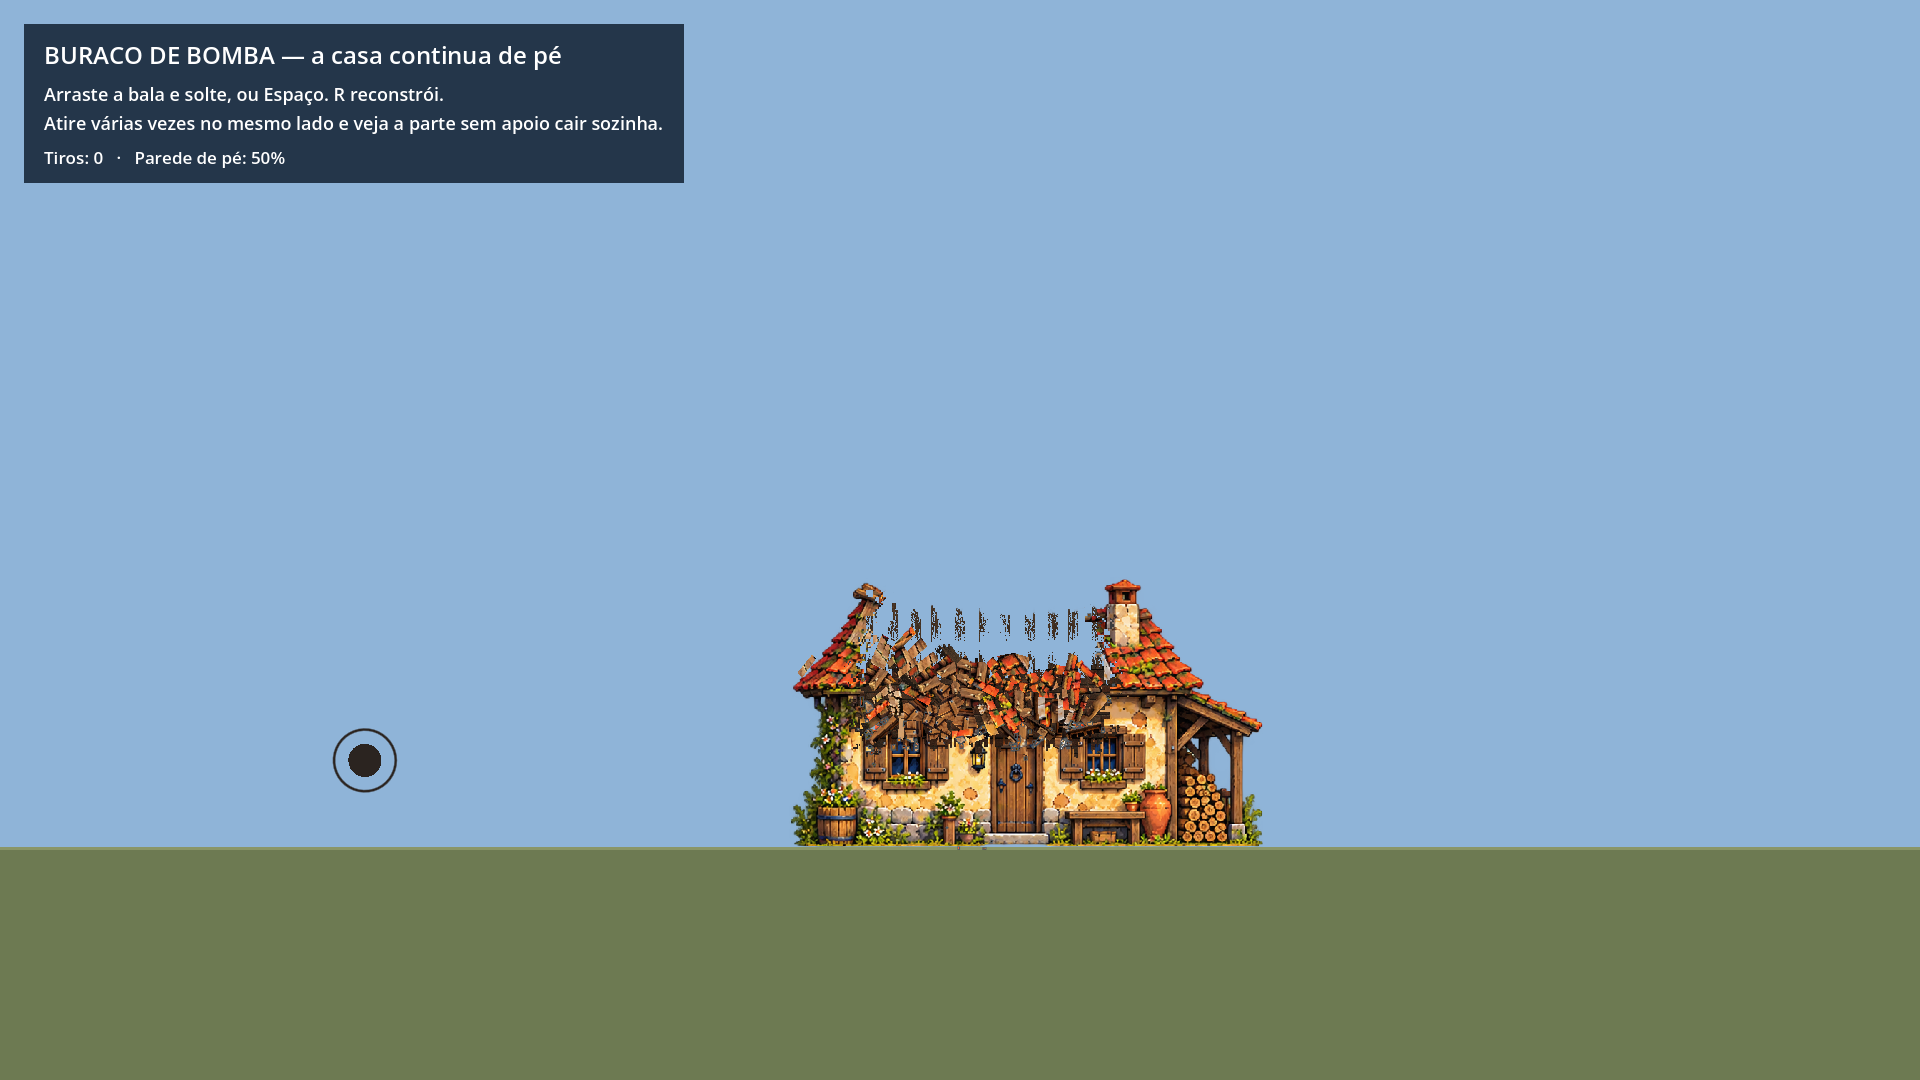
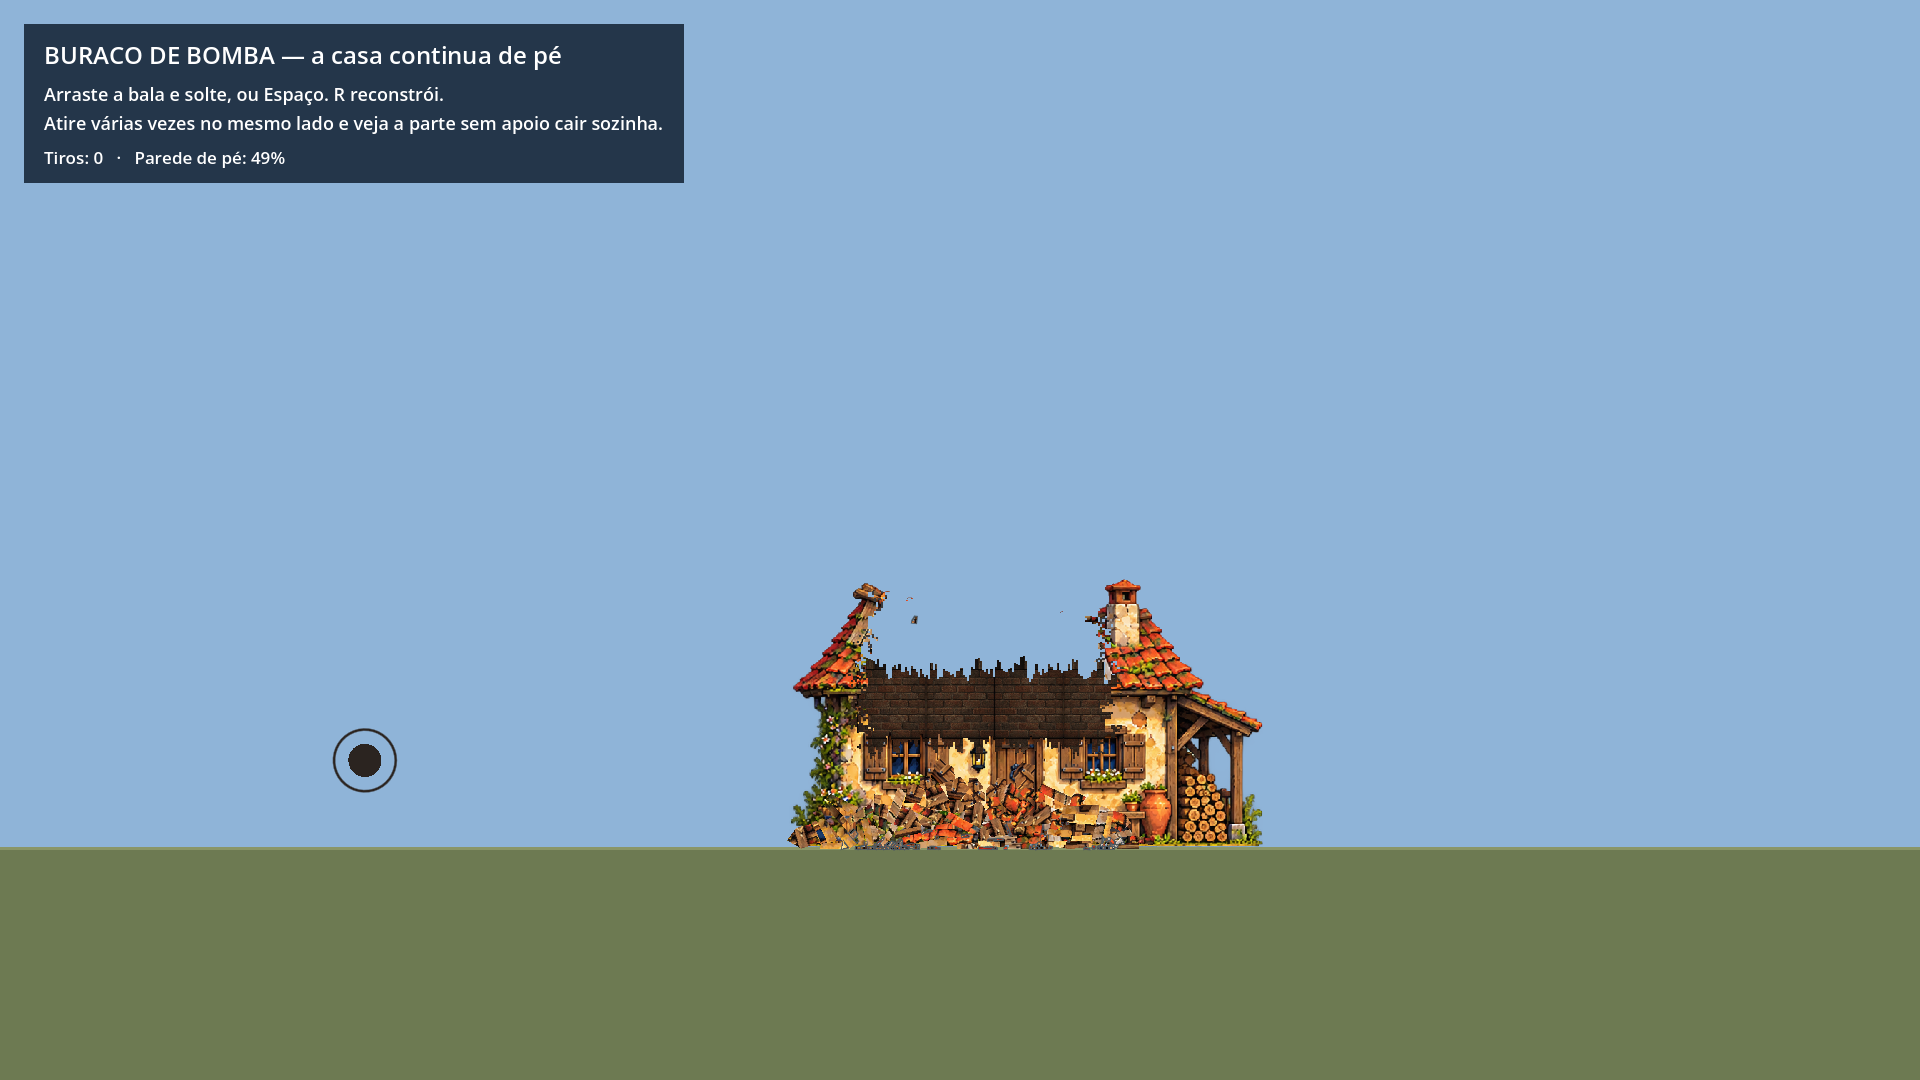
perf: a round costs 23ms instead of 170ms
In order of what it bought: counting what is left standing incrementally rather
than walking the image; baking the tearing noise into a table instead of calling
sin() twice per pixel; working the mask as raw bytes, because get_pixel and
set_pixel are binding calls; deciding the carve per 3x3 block rather than per
pixel; starting the mask empty wherever the artwork is transparent, so a round
skips sky and open ground without evaluating anything; and recovering the
silhouette once per round instead of twice, with fallen islands simply dropped
from the list rather than traced again.

Collision is built from the outline's segments rather than decomposed into convex
pieces. A shelled silhouette traced loosely can cross itself, which the decomposer
reports as an engine error, and in the editor an engine error halts the game.

The roof void opens clean to the sky. Keeping the module's own timber hanging
there by pixel brightness only ever produced streaks, and then speckle once the
carve was coarser; the timber that hangs in a gap is the falling debris itself.

Changed region(s): [[0.4062, 0.55, 0.5938, 0.7944]]

diff --git a/PROGRESSO_PROTOTIPO.md b/PROGRESSO_PROTOTIPO.md
@@ -262,13 +262,17 @@ Visual aprovado pelo usuário na bancada `scenes/physics_lab/carve.tscn`.
 - Escombro carrega a textura de onde quebrou, e assenta: amortecimento cresce com
   o tempo solto, com prazo final. Tiro novo quebra entulho já caído.
 
-PENDÊNCIA PRINCIPAL — desempenho. Cada tiro custa ~89 ms (era ~170 ms), o que o
-usuário descreve como o jogo pausar antes de explodir. Já feitos: contagem
-incremental em vez de varrer a imagem, ruído pré-calculado em tabela no lugar de
-sin() por pixel, rejeição por distância antes do ruído, e máscara trabalhada como
-PackedByteArray. Restam ~60 ms no recorte e ~29 ms em recolher silhueta e remontar
-colisão. Caminhos não tentados: fazer o recorte em fatias ao longo de alguns
-quadros, reduzir a resolução da máscara, ou mover o laço para um shader.
+DESEMPENHO — resolvido. Cada tiro caiu de ~170 ms para ~23 ms, abaixo de dois
+quadros. O que rendeu, em ordem: contagem incremental em vez de varrer a imagem;
+ruído pré-calculado em tabela no lugar de sin() por pixel; máscara trabalhada como
+PackedByteArray em vez de get_pixel/set_pixel; decisão por bloco de 3x3 em vez de
+pixel a pixel; a máscara nascendo vazia onde a arte é transparente, para o recorte
+pular céu e chão sem avaliar nada; silhueta calculada uma vez por tiro em vez de
+duas, com os polígonos que caíram apenas saindo da lista.
+
+A colisão passou a ser por segmentos do contorno em vez de decomposição convexa.
+Um contorno de silhueta bombardeada pode se auto-intersectar, e o decompositor
+reporta isso como erro de motor — que no editor para o jogo rodando.
 
 Outras pendências: o item do mapa de materiais pintado à mão (janela arrebenta
 inteira, parede em volta fica de pé) não foi feito. E nada disso está no jogo
